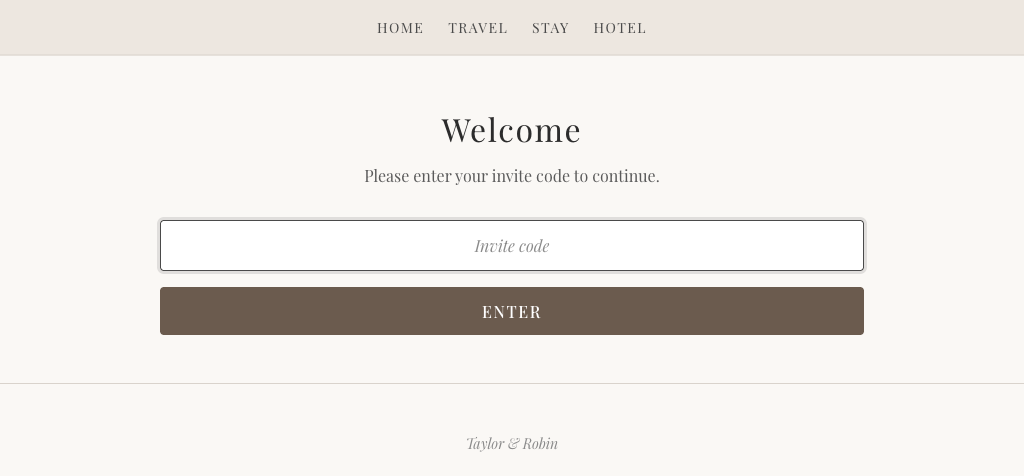
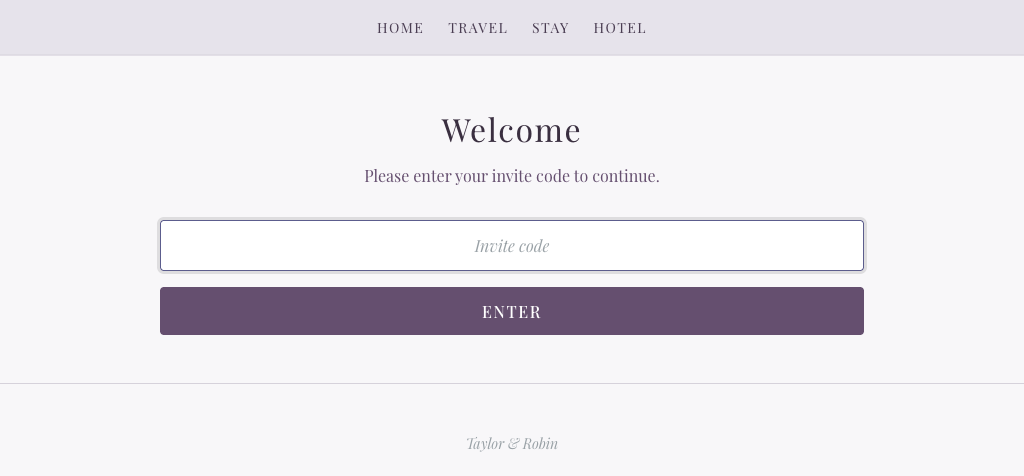
Update design system from warm cream to grape & celadon theme - wedding.css: Replace warm neutral palette with grape/celadon colors; update CSS custom properties for backgrounds, text, borders, and accents; change script font from Great Vibes to Pinyon Script - app/views/layouts/*.erb: Update Google

Changed region(s): [[0.1562, 0.5882, 0.8438, 0.7059]]

diff --git a/app/assets/stylesheets/wedding.css b/app/assets/stylesheets/wedding.css
@@ -1,37 +1,44 @@
 /* ==========================================================================
    Wedding Design System — Git Hitched
-   Warm cream / neutral theme
+   Grape & Celadon theme
    ========================================================================== */
+
+/* ---------- Palette ---------- */
+/* --vintage-grape:  #654f6f  — deep muted purple    */
+/* --dusty-grape:    #5c5d8d  — indigo accent         */
+/* --cool-steel:     #99a1a6  — neutral mid-gray      */
+/* --celadon:        #a8c69f  — soft sage green        */
+/* --tea-green:      #cce2a3  — light green accent     */
 
 /* ---------- Custom Properties ---------- */
 :root {
-  --color-bg-primary:       #FAF8F5;
-  --color-bg-secondary:     #F2EDE8;
-  --color-bg-tertiary:      #EDE7E0;
+  --color-bg-primary:       #F8F7F9;
+  --color-bg-secondary:     #EFEDF2;
+  --color-bg-tertiary:      #E6E3EB;
   --color-bg-input:         #FFFFFF;
 
-  --color-text-primary:     #2C2C2C;
-  --color-text-secondary:   #5A5A5A;
-  --color-text-accent:      #3D3D3D;
-  --color-text-muted:       #8A8A8A;
-  --color-text-highlight:   #4A4A4A;
+  --color-text-primary:     #3A2F40;
+  --color-text-secondary:   #654f6f;
+  --color-text-accent:      #5c5d8d;
+  --color-text-muted:       #99a1a6;
+  --color-text-highlight:   #4A3D52;
 
-  --color-border:           #C5BEB6;
-  --color-border-focus:     #4A4A4A;
-  --color-border-light:     #D9D3CC;
+  --color-border:           #C4BFC9;
+  --color-border-focus:     #5c5d8d;
+  --color-border-light:     #D6D2DB;
 
-  --color-accent:           #4A4A4A;
-  --color-accent-hover:     #333333;
-  --color-accent-pressed:   #5A5A5A;
-  --color-highlight:        #6B5B4E;
-  --color-highlight-hover:  #5A4B3F;
-  --color-highlight-pressed:#7C6C5F;
+  --color-accent:           #5c5d8d;
+  --color-accent-hover:     #4a4b75;
+  --color-accent-pressed:   #6e6f9e;
+  --color-highlight:        #654f6f;
+  --color-highlight-hover:  #553f5f;
+  --color-highlight-pressed:#7a6485;
 
-  --color-success:          #2E7D4A;
+  --color-success:          #a8c69f;
   --color-warning:          #B8860B;
   --color-error:            #A04040;
 
-  --font-script:     'Great Vibes', cursive;
+  --font-script:     'Pinyon Script', cursive;
   --font-serif:      'Playfair Display', serif;
   --font-mono:       'Courier New', monospace;
 

diff --git a/docs/screenshots.html b/docs/screenshots.html
@@ -8,36 +8,39 @@
     * { margin: 0; padding: 0; box-sizing: border-box; }
     body {
       font-family: -apple-system, BlinkMacSystemFont, "Segoe UI", Helvetica, Arial, sans-serif;
-      background: #f6f5f0;
-      color: #3d3a35;
+      background: #F8F7F9;
+      color: #3A2F40;
       line-height: 1.5;
     }
     header {
-      background: #d6cfc4;
+      background: #654f6f;
       padding: 2rem 1rem;
       text-align: center;
     }
     header h1 {
       font-size: 1.75rem;
       font-weight: 600;
+      color: #fff;
       margin-bottom: 0.25rem;
     }
     header p {
-      color: #6b6560;
+      color: rgba(255,255,255,0.75);
       font-size: 0.95rem;
     }
     header a {
-      color: #6b6560;
+      color: rgba(255,255,255,0.85);
       text-decoration: underline;
     }
+    header a:hover { color: #fff; }
     main { max-width: 1100px; margin: 0 auto; padding: 2rem 1rem 4rem; }
     section { margin-bottom: 3rem; }
     section h2 {
       font-size: 1.25rem;
       font-weight: 600;
+      color: #654f6f;
       margin-bottom: 1rem;
       padding-bottom: 0.5rem;
-      border-bottom: 1px solid #d6cfc4;
+      border-bottom: 1px solid #D6D2DB;
     }
     .grid {
       display: grid;
@@ -48,7 +51,8 @@
       background: #fff;
       border-radius: 8px;
       overflow: hidden;
-      box-shadow: 0 1px 3px rgba(0,0,0,0.08);
+      box-shadow: 0 1px 3px rgba(101,79,111,0.1);
+      border: 1px solid #EFEDF2;
     }
     .card img {
       width: 100%;
@@ -60,7 +64,7 @@
     .card .caption {
       padding: 0.6rem 0.85rem;
       font-size: 0.85rem;
-      color: #6b6560;
+      color: #654f6f;
     }
     .overlay {
       display: none;

diff --git a/scripts/take-screenshots.js b/scripts/take-screenshots.js
@@ -68,9 +68,9 @@ async function screenshot(page, name) {
     const info = execSync(`magick identify -format "%w %h" "${file}"`).toString().trim();
     const [origW, origH] = info.split(' ').map(Number);
 
-    // Find the trimmed bounding box — background is srgb(250,248,245) / #faf8f5
+    // Find the trimmed bounding box — background is #F8F7F9
     const trimInfo = execSync(
-      `magick "${file}" -bordercolor "srgb(250,248,245)" -border 1 -fuzz 3% -trim -format "%X %Y %w %h" info:`
+      `magick "${file}" -bordercolor "srgb(248,247,249)" -border 1 -fuzz 3% -trim -format "%X %Y %w %h" info:`
     ).toString().trim();
     const [trimX, trimY, trimW, trimH] = trimInfo.split(' ').map(Number);
 
